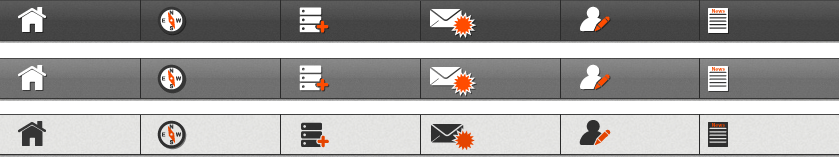
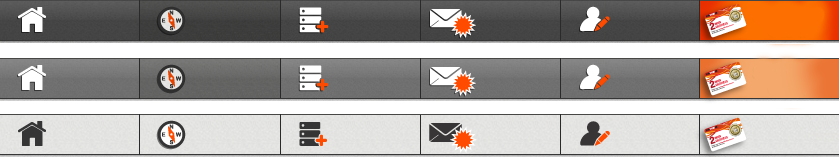
design menu

diff --git a/public/stylesheets/style.css b/public/stylesheets/style.css
@@ -268,7 +268,8 @@ fieldset {
 }
 #nav li a#n6 {
   background-position: 100% 0;
-  text-indent: 39px;
+  text-indent: 48px;
+  font-size: 1.2em;
 }
 
 #nav li a#n1:hover {
@@ -2931,10 +2932,10 @@ top:0;
   height:40px;
   margin: 0 0 0 40px;
   width:170px;
-  background:url("../images/account_modify.png") no-repeat scroll 0 0 transparent;
+  background:url("../images/account_modify.png") no-repeat scroll 0 2px transparent;
 }
 .bouton_probleme .submit:hover {
-  background-position: 0 100%; 
+  background-position: 0 -37px; 
 }
 
 
